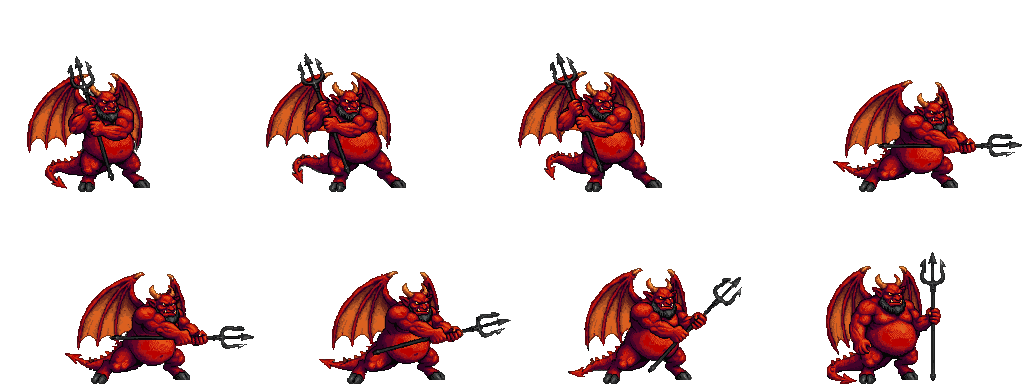
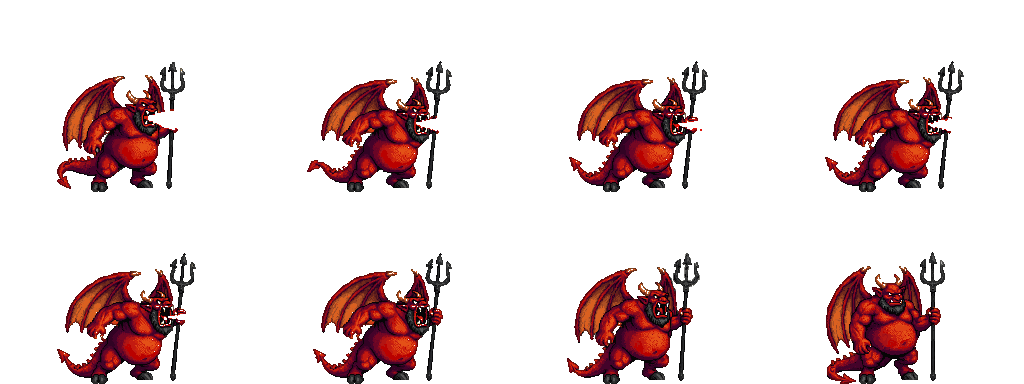
Enfer : le Démon crache le feu ; nouvelle attaque du Tourmenteur
Démon : crache-2 (la gueule grande ouverte, le feu de PixelLab retiré) ; le jeu dessine le jet de feu (« flammes »,
BattleEffects.DrawFlames : il coule de la bouche jusqu'au-delà de la cible, brûle un instant puis se retire), lancé au
corps à corps par le nouveau réglage « meleeProjectile ». --effect-preview=flammes joue l'attaque et son jet.
Tourmenteur : fauche-2 (un balayage bas du crochet, la traînée retirée, les jambes de l'image 3 reprises de la 4).
La fiche du Moloch (idole de bronze qui marche).

diff --git a/godot/scripts/Game/BattleEffects.cs b/godot/scripts/Game/BattleEffects.cs
@@ -270,6 +270,7 @@ public sealed class BattleEffects
         "feuilles" => "feuilles",
         "pierre" => "choc",
         "baiser" => "feu",
+        "flammes" => "feu",
         _ => "choc",
     };
 
@@ -287,6 +288,13 @@ public sealed class BattleEffects
     /// </summary>
     public void Launch(string kind, Vector2 from, Vector2 to, Action arrived, Vector2? from2 = null)
     {
+        if (kind == "flammes")
+        {
+            // le feu craché : un jet qui coule de la bouche jusqu'au-delà de la cible ; le coup porte quand il l'atteint
+            _beams.Add(new Beam { Kind = kind, From = from, To = to, Seed = ++_seed });
+            _projectiles.Add(new Projectile { Kind = "", From = to, To = to, Duration = FlameReach * FlameTime, Arrived = arrived });
+            return;
+        }
         if (kind is "eclair" or "rayon")
         {
             // un éclair ou un rayon n'a pas de trajet : il frappe presque aussitôt (un projectile invisible porte le moment du coup)
@@ -350,7 +358,7 @@ public sealed class BattleEffects
         _impacts.RemoveAll(i => i.Age > ImpactTime(i.Kind));
         foreach (var b in _beams)
             b.Age += delta;
-        _beams.RemoveAll(b => b.Age > (b.Kind == "rayon" ? RayTime : BeamTime));
+        _beams.RemoveAll(b => b.Age > b.Kind switch { "rayon" => RayTime, "flammes" => FlameTime, _ => BeamTime });
         foreach (var w in _flows)
             w.Age += delta;
         _flows.RemoveAll(w => w.Age > FlowTime);
@@ -887,6 +895,11 @@ public sealed class BattleEffects
             DrawRay(canvas, b);
             return;
         }
+        if (b.Kind == "flammes")
+        {
+            DrawFlames(canvas, b);
+            return;
+        }
         float fade = 1 - (float)(b.Age / BeamTime);
         int flicker = (int)(b.Age / 0.05);
         int seed = b.Seed + flicker * 31;
@@ -914,6 +927,52 @@ public sealed class BattleEffects
 
     /// <summary>Durée du rayon du Tyran œil à l'écran (il reste un peu plus qu'un éclair : on le voit sortir de l'œil).</summary>
     private const double RayTime = 0.45;
+
+    /// <summary>La durée du feu craché, et la part de cette durée qu'il met à atteindre la cible.</summary>
+    private const double FlameTime = 0.6, FlameReach = 0.3;
+
+    /// <summary>
+    /// Le feu craché du Démon : un jet qui coule de la bouche et s'élargit en s'éloignant, rouge sombre au bord, orange,
+    /// puis un cœur jaune pâle ; il ondule et crépite, va un peu au-delà de la cible, brûle un instant puis s'éteint en
+    /// se retirant vers sa pointe.
+    /// </summary>
+    private static void DrawFlames(CanvasItem canvas, Beam b)
+    {
+        float t = (float)(b.Age / FlameTime);
+        float reach = Math.Min(1, t / (float)FlameReach);
+        float tail = t < 0.7f ? 0 : (t - 0.7f) / 0.3f; // la fin : le jet quitte la bouche
+        // la bouche d'une grande créature est presque sur la case voisine : le jet passe la cible, au moins 160 pixels
+        float length = Math.Max(b.From.DistanceTo(b.To) * 1.3f, 160);
+        var end = b.From + (b.To - b.From).Normalized() * length;
+        var dir = (end - b.From).Normalized();
+        var across = new Vector2(-dir.Y, dir.X);
+        int samples = Math.Max(3, (int)(b.From.DistanceTo(end) / (U * 2)));
+        int flicker = (int)(b.Age / 0.05);
+        // trois passes (le bord sombre, l'orange, le cœur pâle) : chaque couche couvre la précédente d'un seul tenant,
+        // sans anneaux ; la taille de chaque bout change à chaque battement (des langues de feu)
+        var layers = new[] { (Extra: 1, Share: 1f, Color: new Color(0.75f, 0.12f, 0.05f, 0.85f)),
+            (Extra: 0, Share: 1f, Color: new Color(1, 0.45f, 0.08f)), (Extra: 0, Share: 0.45f, Color: new Color(1, 0.88f, 0.45f)) };
+        foreach (var layer in layers)
+            for (int i = 0; i <= samples; i++)
+            {
+                float s = (float)i / samples;
+                if (s > reach || s < tail)
+                    continue;
+                float wave = MathF.Sin((float)b.Age * 30 + i * 1.3f) * s * 2;
+                var at = b.From.Lerp(end, s) + across * wave * U;
+                float jitter = 0.75f + 0.5f * Noise(b.Seed + i * 7, flicker);
+                int width = (int)((1 + s * 6) * jitter * layer.Share) + layer.Extra;
+                if (width > 0 || layer.Extra > 0)
+                    Blob(canvas, at, width, layer.Color);
+            }
+        // des braises qui s'échappent du jet et montent
+        for (int k = 0; k < 6; k++)
+        {
+            float s = Math.Clamp(reach - 0.15f * k, tail, 1);
+            var at = b.From.Lerp(end, s) + new Vector2(((b.Seed + k * 13) % 7 - 3) * U, -t * (8 + k * 3) * U);
+            Dot(canvas, at, new Color(1, 0.7f, 0.2f, 1 - t));
+        }
+    }
 
     /// <summary>
     /// Le rayon du Tyran œil : un trait droit de son œil à la cible, un cœur pâle, un halo violet qui ondule (plus large

diff --git a/godot/scripts/Game/BattleFieldView.cs b/godot/scripts/Game/BattleFieldView.cs
@@ -1166,8 +1166,9 @@ public partial class BattleFieldView : Control
                     double age = 0, wind = 0, boltAge = -1;
                     bool hit = false, launched = false, landed = false;
                     // un tir avec un projectile (flèche, boule de feu) : il part à l'image du lâcher et le coup porte à son
-                    // arrivée ; sinon le coup porte au moment habituel du geste
-                    string? shot = struck.Ranged ? TextSetting(struck.Attacker, "projectile") : null;
+                    // arrivée ; sinon le coup porte au moment habituel du geste. Un coup au corps à corps peut aussi
+                    // lancer quelque chose (« meleeProjectile » : le feu que crache le Démon)
+                    string? shot = TextSetting(struck.Attacker, struck.Ranged ? "projectile" : "meleeProjectile");
                     // un coup joué sur la case de la cible (la foudre de l'Oiseau-tonnerre) : l'effet part un peu avant le
                     // coup, pour toucher le sol au moment où il porte
                     bool onHex = shot == null && BattleEffects.PlaysOnHex(TextSetting(struck.Attacker, "impact"));
@@ -1792,13 +1793,32 @@ public partial class BattleFieldView : Control
         if (!BattleEffects.PlaysOnHex(parts[0]))
         {
             // un tir (« eclair ») : de la première troupe de gauche vers la première de droite, relancé sans cesse pour
-            // rester visible sur une capture
+            // rester visible sur une capture. Si cette troupe le lance elle-même (« projectile » ou « meleeProjectile »),
+            // elle joue son attaque toutes les deux secondes et le tir part à son image du lâcher.
+            var from = _shown.FirstOrDefault(p => !p.Value.Gone && p.Key.Side == BattleSide.Attacker);
+            var to = _shown.FirstOrDefault(p => !p.Value.Gone && p.Key.Side == BattleSide.Defender);
+            if (from.Key != null && to.Key != null && Sheet(from.Key, AttackState) != null
+                && (TextSetting(from.Key, "projectile") == parts[0] || TextSetting(from.Key, "meleeProjectile") == parts[0]))
+            {
+                double before = _previewClock;
+                _previewClock = _previewClock < 0 || _previewClock > 2 ? 0 : _previewClock + delta;
+                if (_previewClock == 0)
+                    from.Value.Play(AttackState);
+                double release = (Setting(from.Key, "launchFrame") ?? 3) / Fps(from.Key, AttackState);
+                // un coup au corps à corps vise la case voisine (là où serait l'ennemi)
+                var aim = TextSetting(from.Key, "meleeProjectile") == parts[0]
+                    ? BodyCenter(from.Key, from.Value) + new Vector2(HexWidth, 0)
+                    : BodyCenter(to.Key, to.Value);
+                if (before < release && _previewClock >= release)
+                    _effects.Launch(parts[0], LaunchPoint(from.Key, from.Value), aim, () => { });
+                if (_previewClock > 1.2 && from.Value.State == AttackState)
+                    from.Value.Play(Idle);
+                return;
+            }
             _previewClock = _previewClock < 0 ? 0 : _previewClock + delta;
             if (_previewClock > 0 && _previewClock < 0.2)
                 return;
             _previewClock = 1e-6;
-            var from = _shown.FirstOrDefault(p => !p.Value.Gone && p.Key.Side == BattleSide.Attacker);
-            var to = _shown.FirstOrDefault(p => !p.Value.Gone && p.Key.Side == BattleSide.Defender);
             if (from.Key != null && to.Key != null)
                 _effects.Launch(parts[0], LaunchPoint(from.Key, from.Value), BodyCenter(to.Key, to.Value), () => { },
                     LaunchPoint(from.Key, from.Value, "launchPoint2"));
